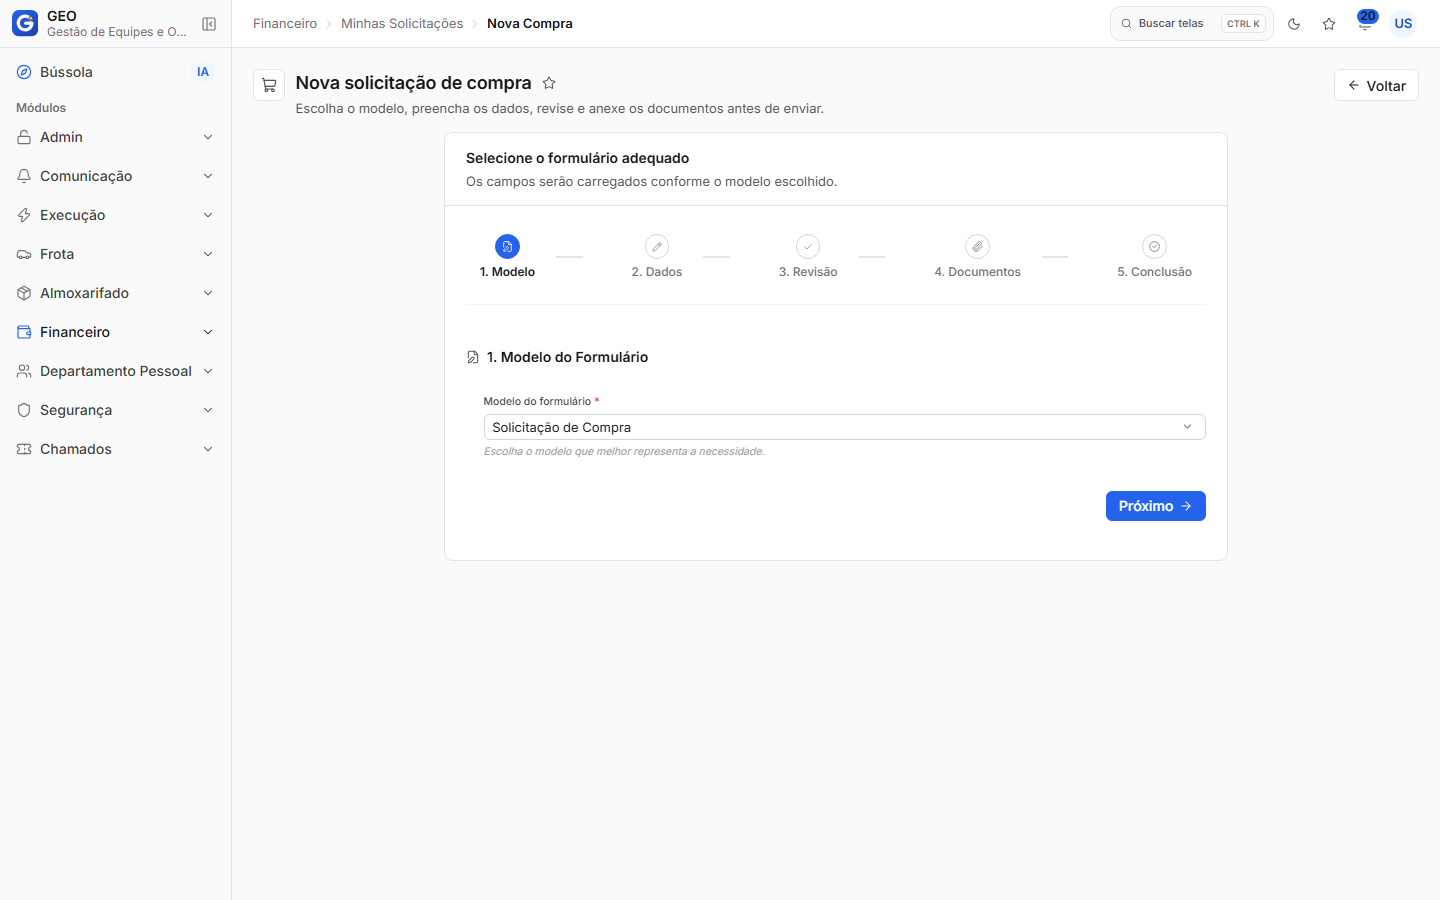
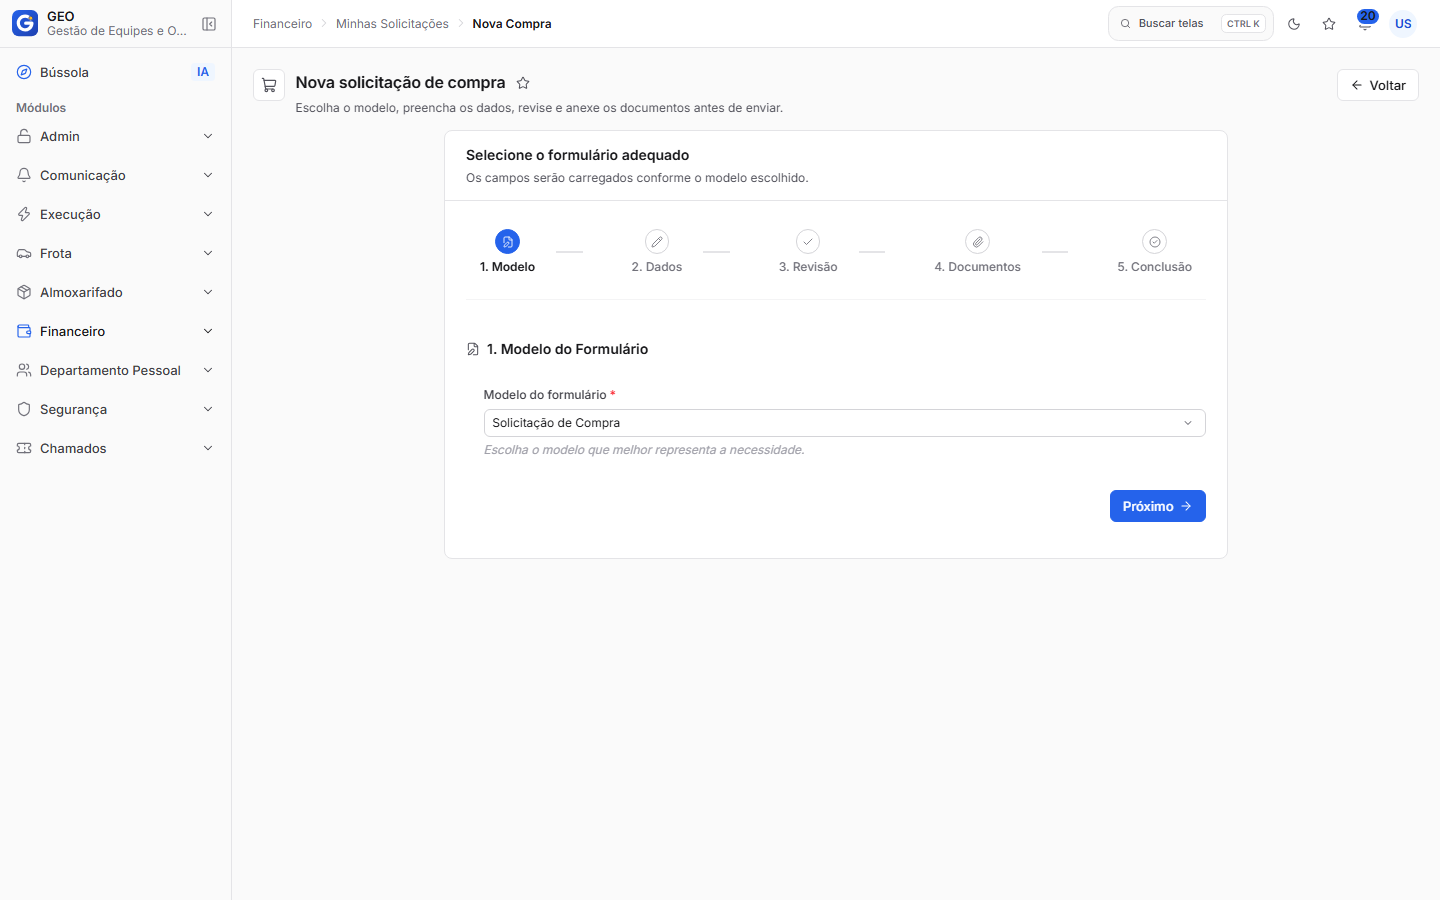
docs(redesign): MORNING_REPORT, progresso final e oportunidades

diff --git a/docs/redesign/MORNING_REPORT.md b/docs/redesign/MORNING_REPORT.md
@@ -1,0 +1,177 @@
+# Redesign do GEO — relatório da manhã (20/11/2026)
+
+Branch **`redesign/full`** (a partir da `main` em 9d67b2b0). Nada foi enviado ao remoto; a `main` não foi tocada.
+
+## Resumo (10 linhas)
+1. Identidade nova no `@geo/ui`: preset sobre Aura compat com neutros **zinc** e **um acento azul**, fonte **Inter**, raiz 14px, controles de ~32px e escuro completo (`.app-dark`).
+2. **Tipografia compacta**, a seu pedido no meio da noite: texto base 13px, rótulos 12px, título de página 16px (commit a041ddb0).
+3. Os tokens `--geo-*` viraram camada de compatibilidade sobre os primitivos `--p-*`, e o preset passou a ser a fonte única de cor. 1.289 hex de CSS foram trocados por primitivos.
+4. **Ícones:** os 6.522 usos de PrimeIcons agora desenham Lucide via máscara CSS gerada (`pi-lucide.css`), e a fonte PrimeIcons saiu do bundle.
+5. **Shell:** topbar de 48px e sidebar neutra de 232px, com itens de 30px. Ctrl+K, tema claro/escuro e Ctrl+S já existiam e foram mantidos.
+6. **Componentes novos no `@geo/ui`:** `geo-status-tag` (lê o `StatusDto` da API), `geo-empty-state`, `geo-filter-bar`, seletor de colunas persistido no `geo-data-table`, `align` por coluna, `.geo-cell-clamp` e `geoApplyServerErrors`.
+7. **Backend:**
+   - `errors[]` nos erros por campo (contrato RFC 9457);
+   - 422 em regra de negócio;
+   - ordenação inválida devolve 400, em vez do 500 de antes;
+   - `StatusDto`/`UiSeverity` e `GET /api/v1/meta/enums/{nome}`;
+   - textos de dashboard formatados em pt-BR.
+8. **Telas:** as 3 de referência foram aprovadas pelo ui-reviewer, e as P1 de todos os módulos foram migradas por subagentes, com uma revisão do ui-reviewer por módulo.
+9. **Bugs reais corrigidos de passagem:**
+   - fundo transparente na primeira pintura;
+   - `/ativos-min`, que sempre dava 400;
+   - botão primário ilegível no escuro;
+   - números crus nos textos dos dashboards.
+10. **Verificações:** build, `npm test`, `ds:check` e e2e (ver a seção de verificações). Sem nenhum `::ng-deep` no SST; os `!important` que restam nas telas estão em `@media print`.
+
+## Telas
+**Referência (aprovadas pelo portão):** `/obras` (listagem densa), `/obras/nova` (formulário longo) e `/execucao/dashboard-operacional`.
+
+**Migradas (P1):**
+
+| Módulo | Telas migradas |
+|---|---|
+| Obras | ficha, turnos, medições, encerramento, programação (semana, mês, painel e histórico), pré-fechamento |
+| Execução | comercial, turnos, metas físicas |
+| Frota | ordens de serviço, veículos, abastecimentos, relatórios |
+| Almoxarifado | solicitações técnicas; movimentações, saldos e relatórios revisados |
+| DP | painel, novo desconto, lançamento e as filas |
+| SST | inspeção (nova/editar/detalhe), evento (novo/editar/detalhe), construtor de formulário, 3 dashboards; CSS da governança |
+| Financeiro | compras, pagamentos, aprovações, nova compra/pagamento, detalhe, dashboard |
+| Chamados | fila, meus, detalhe |
+| Notificações | mural, formulários de comunicado e automações (CSS) |
+| Home e Bússola | home, Bússola |
+| IAM | login, usuários, perfis, permissões, avaliações |
+| RH/cadastros | 15 listagens |
+| Outros | contrato, sincronismo, documentos legais |
+
+**Não migradas, ou só com o efeito global do tema:**
+- **Relatórios P2:** `/obras/encerramento/:id`, `/execucao/comercial/:id`, `/execucao/turnos/:id/detalhamento`, os relatórios de impressão da frota e os detalhes de solicitação do almoxarifado. Fica pendente o componente de página-relatório (O14).
+- **Cadastros P3 e telas secundárias:** cerca de 40 telas da frota, os cadastros do almoxarifado e do SST, `/obras/:id/planejamento`, dashboard e documentos de chamados, preferências e comunicados. O motivo foi orçamento: o limite de uso foi atingido duas vezes durante a noite.
+- **Sem acesso:** `/almoxarifado/solicitacoes`, a governança do SST e `/notificacoes/automacoes`. O USRADMIN local não tem a permissão, e mexer em permissões está proibido.
+- `/manuais` redireciona para a home (rota oculta ou permissão).
+
+Todas as telas recebem a identidade nova pelos efeitos globais: tema, tokens, Tailwind, ícones e tipografia.
+
+## Evidências
+- **Telas de referência, antes:** [obras-lista](shots/antes/obras-lista-claro-1440.jpg) · [obras-nova](shots/antes/obras-nova-claro-1440.jpg) · [dashboard](shots/antes/dashboard-operacional-claro-1440.jpg) (mais escuro e 1280 na mesma pasta).
+- **Telas de referência, depois:** [obras-lista claro](shots/depois/obras-lista-claro-1440.png) / [escuro](shots/depois/obras-lista-escuro-1440.png) · [obras-nova claro](shots/depois/obras-nova-claro-1440.png) / [escuro](shots/depois/obras-nova-escuro-1440.png) · [dashboard claro](shots/depois/dashboard-operacional-claro-1440.png) / [escuro](shots/depois/dashboard-operacional-escuro-1440.png).
+- **Uma tela por módulo:**
+  - [Obras: ficha](shots/depois/obras-ficha-claro-1440.png)
+  - [Execução: comercial](shots/depois/execucao-comercial-claro-1440.png)
+  - [Frota: ordens de serviço](shots/depois/frota-ordens-servico-claro-1440.png)
+  - [Almoxarifado: solicitações técnicas](shots/depois/almoxarifado-solicitacoes-tecnicas-claro-1440.png)
+  - [DP: painel](shots/depois/dp-dashboard-claro-1440.png)
+  - [SST: inspeção com checklist](shots/depois/sst-inspecao-checklist-escuro-1440.png)
+  - [Financeiro: compras](shots/depois/financeiro-compras-claro-1440.png)
+  - [Chamados: fila](shots/depois/chamados-fila-claro-1440.png)
+  - [Notificações: mural](shots/depois/notificacoes-mural-claro-1440.png)
+  - [RH: colaboradores (escuro)](shots/depois/rh-colaboradores-escuro-1440.png)
+  - [Home](shots/depois/home-inicio-claro-1440.png)
+  - [Bússola](shots/depois/bussola-inicio-claro-1440.png)
+
+  Variantes claro/escuro e 1280 ficam em `shots/depois/`.
+- **Vídeos dos fluxos (.webm):** o `gif_creator` do Chrome não ficou disponível. Ver o item "Chrome" em Riscos.
+  - [obras](gifs/obras-fluxo.webm) · [ficha da obra](gifs/obras-ficha-fluxo.webm) · [execução](gifs/execucao-fluxo.webm)
+  - [frota](gifs/frota-fluxo.webm) · [almoxarifado](gifs/almoxarifado-fluxo.webm) · [DP](gifs/dp-fluxo.webm)
+  - [SST](gifs/sst-fluxo.webm) · [financeiro](gifs/financeiro-fluxo.webm) · [chamados](gifs/chamados-fluxo.webm)
+  - [notificações](gifs/notificacoes-fluxo.webm) · [cadastros](gifs/cadastros-fluxo.webm)
+  - Alguns passos de clique falharam na gravação: abrir linha em cadastros, "Próximo" no financeiro e "Ver turno" na execução. Nenhum vídeo salva dado.
+
+## Decisões (uma linha cada)
+| # | Decisão | Justificativa |
+|---|---|---|
+| D1 | Preset sobre `aura-compat`, não o Aura padrão | O Aura padrão supõe raiz de 16px; as telas têm centenas de medidas em rem. A migração está nas PENDÊNCIAS (prazo jun/2027). |
+| D2 | Raiz 14px | Controles de 32px e o kit calibrado para 14px. |
+| D3 | Inter self-hosted | Kit; a Manrope foi removida. |
+| D4 | Neutros zinc e um acento azul (blue.600 = azul da marca) | "Neutra, um acento"; o âmbar deixou de ser acento. |
+| D5 | Sidebar neutra, sem ladrilhos | O acento fica só no item ativo. |
+| D6 | `--geo-*` apontam para primitivos `--p-*` | Os semânticos têm `light-dark()`, que o chart.js e o Leaflet não leem. |
+| D7 | PrimeIcons por máscara Lucide em CSS | Um set de ícones na hora, sem reescrever 566 arquivos. |
+| D8 | Validação pelo Playwright headless | O Chrome parou de renderizar capturas às 00:30 (tela do PC desligada). |
+| D9 | `uppercase` do Tailwind neutralizado globalmente | Kit: nada em caixa alta. `.geo-caixa-alta` para exceções. |
+| D10 | Hex trocado pelo primitivo mais próximo | Uma fonte de cor, preservando o claro/escuro. |
+| D11 | IllegalState/Validation → 422 | Contrato; a fila offline trata todo 4xx igual. |
+| D12 | Ordenação inválida → 400 no handler global | Elimina os 500 de 92 controllers de uma vez; a whitelist por recurso é a oportunidade O3. |
+| D13 | `max-page-size` não limitado a 200 | 65 telas pedem 500–2000 itens para selects (depende de O2). |
+| D14 | `api:gen` com openapi-typescript via `npx` | Ele declara peer TS 5; o projeto está no TS 6. |
+| D15 | Novos arquivos do backend em `application/dto` e `mappers` | O `backend/CLAUDE.md` proíbe camadas extras. |
+| D16 | Tipografia compacta (13/12/16px) com controles mantidos | Pedido seu durante a noite. |
+| D17 | Tokens de primeira pintura com fallback hex | As `--p-*` só existem depois que o PrimeNG injeta o tema. |
+| D18 | Subagentes no mesmo working tree, cada um na pasta do seu módulo | Paralelismo sem conflito; eu integrei e commitei. |
+| D19 | `!important` de `@media print` mantidos | Sobrepõem o shell na impressão. |
+| D20 | Erros de e2e que já existiam antes foram ajustados ou marcados como `skip` com justificativa | Seletor de cor primária removido do catálogo; título da home mudou. |
+
+## Backend, endpoint por endpoint
+- **Todos os endpoints (GlobalExceptionHandler):**
+  - validação e preenchimento: ProblemDetail com `errors: [{field, message, code}]` e `code` (`fieldErrors`/`erros` mantidos);
+  - `IllegalStateException` → 422 `ESTADO_INVALIDO`;
+  - `ValidationException` → 422 `REGRA_NEGOCIO_VIOLADA`;
+  - `PropertyReferenceException` (sort inválido) → 400 `ORDENACAO_INVALIDA`.
+- **Novo `GET /api/v1/meta/enums`:** lista os nomes dos enums. Tem cache de 1h.
+- **Novo `GET /api/v1/meta/enums/{nome}`:** devolve `[{code, label, severity}]`. Publicados: `status-chamado` e `status-desconto`.
+- **`/v1/dp/descontos/dashboard` e `/v1/financeiro/dashboard`** (prioridades): moeda e percentual em pt-BR e plural no texto, no lugar de "(s)".
+- **Front:** supervisores/coordenadores ativos agora vêm de `/v1/rh/{supervisores,coordenadores}/min`, endpoint que já existia (o `/ativos-min` nunca existiu).
+- Sem migrations e sem mudança de regra de negócio, cálculo ou permissão.
+
+## Verificações (estado final)
+| Verificação | Estado | Detalhe |
+|---|---|---|
+| `ng build` | ✅ verde | Rodado no estado final (commit 1e39384e). Só avisos que já existiam (budget do bundle, NG8011). |
+| `npm test` (Vitest) | ⚠ não reconfirmado no estado final | A última rodada completa deu 306 de 307 arquivos. O que falhava (import-drawer, teste da regra antiga de largura) foi corrigido, e os módulos tocados depois passaram isolados: SST + import-drawer com 30 arquivos, chamados/financeiro/SST com 28. A rodada completa final **foi interrompida pelo Claude Code por falta de memória** na máquina. Rode `npm test -- --watch=false` para confirmar. |
+| `ds:check` | ✅ verde | No estado final, com a linha de base do `ds:visual` atualizada: as contagens só caíram. |
+| e2e (Playwright) | ⚠ não reconfirmado no estado final | Verde na rodada de ~05:30: desktop + mobile, com 2 testes em `skip` justificados (D20). A rodada final foi interrompida por falta de memória. Rode `npm run test:e2e`. |
+| Backend (`mvnw test`) | ✅ 2.350/2.353 | Os 3 erros já existiam antes (veja abaixo). |
+
+**Atenção:** o backend que eu subi na 8092 também foi encerrado pelo Claude Code por falta de memória. Ele **não está mais no ar**; suba com o comando de "Como revisar".
+
+Backend: 2.353 testes; os 3 que falham (`RenderizacaoAtaDocxServiceTest`) já falhavam antes, por falta de um `.docx` de referência fora do repositório.
+
+## PENDÊNCIAS e riscos para você olhar
+- **Chrome:** a extensão parou de capturar telas por volta de 00:30, provavelmente com a tela do PC desligada. Toda a validação visual foi feita pelo Playwright headless. Por isso não há GIF; os fluxos estão em .webm.
+- **Limite de uso:** foi atingido 2 vezes (das 03h às 05h20 e às 07h20). Os subagentes pararam no meio e foram retomados. Por isso as telas P2/P3 ficaram fora.
+- **Sessão do Playwright:** compartilhar o refresh token entre cópias de sessão as invalidou (rotação de token). Prints de alguns módulos foram refeitos depois com login novo.
+- **Ao reiniciar o backend,** eu subi uma vez sem `DB_URL`, apontando para o `ces-db` de outro checkout. O Flyway **recusou na validação, sem aplicar nada**, e subi de novo no `nexo-db`. Vale conferir com `select * from flyway_schema_history order by installed_rank desc limit 5` no `ces-db` que nada mudou.
+- O backend que eu subi em 8092 foi encerrado por falta de memória na máquina, junto com a rodada final de testes. Não reiniciei.
+- **Aura padrão:** migrar de `aura-compat` antes de jun/2027.
+- **Mudanças mecânicas globais** (hex → primitivo, `uppercase`/`bold`/tracking, fontes < 12px, escala do Tailwind): alguma tela não revisada pode ter mudado de nuance ou de tamanho de texto.
+- **NG0100 (ExpressionChanged)** no `SidebarComponent` em dev: o `item.expanded` do `p-panelmenu` em `Eager`. Provavelmente já existia antes.
+- **Permissões do USRADMIN local** impediram revisar 3 telas (ver Telas). Não mexi em permissões.
+- `/financeiro/gestao/solicitacoes` está declarada 2x em `app.routes.ts` (só relatado).
+- Restos da revisão final, ainda não feitos:
+  - formato de data diferente entre módulos (um formatador único no `@geo/ui`);
+  - "Exportar CSV" no cabeçalho em umas telas e na barra da tabela em outras;
+  - PrimeNG direto em formulários do financeiro e do SST;
+  - checklist da inspeção com botões em vez de rádio;
+  - breadcrumbs em Title Case;
+  - título do card repetindo o título da página.
+- Arquivo solto: `C:\c\Users\...` foi criado por engano por um subagente (prints de rascunho). Pode apagar à mão.
+- Registros `[TESTE]`: nenhum foi criado; nada foi salvo no banco.
+
+## Oportunidades
+Lista completa em [OPORTUNIDADES.md](OPORTUNIDADES.md). As 5 de maior impacto:
+1. **O14:** componente de página-relatório no `@geo/ui`, para acabar com as barras flutuantes e com o "NOME DA EMPRESA" na tela nos relatórios P2.
+2. **O2:** endpoints `/options` com busca, em vez de carregar 500–2000 itens para cada select.
+3. **O4:** `StatusDto` nas linhas das listagens + `<geo-status-tag>` (a infraestrutura já existe).
+4. **O1:** um único rótulo para o status de desconto (hoje "Solicitado", "Lançado" e "Aguardando validação").
+5. **O10/O11:** detalhes de solicitação (almoxarifado) e de desconto (DP) ainda no layout antigo.
+
+## Como revisar
+```bash
+git log main..redesign/full --oneline
+git diff --stat main..redesign/full
+
+# backend (banco nexo-db, como na nota do ambiente local)
+cd backend
+DB_URL=jdbc:postgresql://localhost:5433/nexo-db ./mvnw spring-boot:run -Dspring-boot.run.jvmArguments="-Dserver.port=8092 -Dgeo.email.provedor=NENHUM"
+
+# front
+cd frontend
+npm start                         # http://localhost:4200
+npm run build && npm test -- --watch=false && npm run ds:check && npm run test:e2e
+npm run api:gen                   # com o backend no ar
+
+# prints e vídeos
+node tools/redesign/shots.mjs <pasta> nome=/rota
+node tools/redesign/gravar.mjs <saida.webm> <passos.json>
+```
+Documentos: [PROGRESS.md](PROGRESS.md) · [inventory.md](inventory.md) · [api-gap.md](api-gap.md) · [OPORTUNIDADES.md](OPORTUNIDADES.md) · [BRIEF-MODULO.md](BRIEF-MODULO.md)

diff --git a/docs/redesign/OPORTUNIDADES.md b/docs/redesign/OPORTUNIDADES.md
@@ -10,7 +10,7 @@ seguras foram implementadas na hora (ver PROGRESS.md).
 | O3 | Listagens server-side (92 controllers) | `sort` repassado cru ao JPA; hoje um campo inválido devolve 400 (antes 500), mas qualquer propriedade da entidade é ordenável. | Whitelist de ordenação por recurso (mapa coluna da UI → propriedade), como na skill do contrato. | médio | médio |
 | O4 | Listagens de status (65 campos enum cru) | Cada tela mantém tabela própria de rótulo/cor/ícone do status. | Devolver `StatusDto {code,label,severity}` nas linhas (`*Row`) e usar `<geo-status-tag>`; os catálogos `EnumDeUi` já existem para chamado e desconto. | alto | médio |
 | O5 | 71 controllers | DTO de listagem igual ao de detalhe: listagens trafegam campos que a tabela não mostra. | Separar `XxxRow` (plano, só colunas) de `XxxDetail`. | médio | alto |
-| O6 | Carteira de obras (`/obras`) | 18 colunas na tabela; em 1280px metade fica fora da tela. | Colunas configuráveis por usuário (mostrar/ocultar, ordem) persistidas, com um conjunto padrão de 9 colunas. | alto | médio |
+| O6 | Carteira de obras (`/obras`) | 18 colunas na tabela. **Parcialmente feito:** seletor de colunas persistido + 10 colunas padrão. Falta reordenar colunas. | Reordenação por arrastar no seletor de colunas do `geo-data-table`. | médio | médio |
 | O7 | Rótulos de dados em maiúsculas (status de obra, processos, bases) | Os cadastros gravam nomes em CAIXA ALTA; a interface não consegue apresentá-los em caixa de frase. | Normalizar a exibição no backend (campo `nomeExibicao`) ou migração de dados combinada com o cliente. | médio | médio |
 | O8 | Frota — ordens de serviço | Até 3 selos na coluna Situação alargam a tabela e empurram a Descrição para fora. | Selos secundários (prazo, parado) só com ícone + tooltip, ou coluna "Alertas". | médio | baixo |
 | O9 | Frota — 40 listagens P2/P3 | Ainda sem o ajuste de texto em 1 linha (linhas altas). | Aplicar `AJUSTE_TEXTO_FROTA` (já existe em `features/frota/shared/frota-lista.ts`) e revisar células custom. | alto | médio |
@@ -18,3 +18,12 @@ seguras foram implementadas na hora (ver PROGRESS.md).
 | O11 | DP — detalhe do desconto (`/dp/descontos/:id`) | 76 classes `!`; botões validar/baixar/rejeitar com cor forçada. | `geo-button` com variantes + `geo-form-drawer`. | alto | médio |
 | O12 | DP — novo desconto | Rota `fullscreen: true` deixa o formulário sem sidebar e sem trilha. | Tirar o fullscreen ou abrir em drawer a partir da listagem. | médio | baixo |
 | O13 | Dashboards de chamados, financeiro, SST e frota | Ainda usam `app-dashboard-insight-panel` (agora neutro), enquanto a referência usa `app-dashboard-visao-gerencial`. | Aposentar o insight-panel e migrar todos para a visão gerencial. | médio | médio |
+| O14 | Relatórios P2 (`/obras/encerramento/:id`, `/execucao/comercial/:id`, `/execucao/turnos/:id/detalhamento`, detalhe financeiro) | Barra de ações flutuante em caixa alta, "NOME DA EMPRESA" na tela, `relatorio.css` com !important. | Componente `@geo/ui` de página-relatório: page-header com ações e documento só na impressão (padrão já aplicado nos detalhes do SST e na ficha da obra). | alto | médio |
+| O15 | Listas de desvios e eventos (SST) | Colunas espremidas; "Ver detalhes"/"Abrir evento" em texto ocupam ~130px; "Abrir evento" abre nova aba. | Ação da linha só com ícone ou clique na linha (mesma aba); colunas ocultas por padrão. | alto | médio |
+| O16 | Ficha da obra (`/obras/:id`) | 8 ações na barra do topo; "Atualizar obra" com chevron à esquerda e sem aria-haspopup. | Menu "Mais ações" (Devolver, Encerramento, Imprimir) e menu do `@geo/ui` com aria correto. | médio | baixo |
+| O17 | Abrir ficha/nota a partir de listas (obras, comercial, eventos) | `window.open` em nova aba. | Abrir na mesma aba, com Ctrl+clique para nova aba. | médio | baixo |
+| O18 | Formulários de inspeção e evento (SST) e financeiro | `p-*` crus com `ngModel`; stepper feito à mão com `p-stepper`. | Migrar para `geo-form-*` e criar `geo-stepper` no `@geo/ui`. | médio | alto |
+| O19 | Dashboards (inspeções SST, descontos) | Cores de gráfico em hex/rgba sem variante escura. | Ler a paleta do `ThemeTokens` (já usado no dashboard de eventos). | médio | baixo |
+| O20 | Listagens RH/IAM | "Editar" em texto + ícones repetidos em toda linha. | Clique na linha + menu "⋯", como em /obras. | médio | médio |
+| O21 | /bussola | Grade de sugestões passa por baixo do compositor em telas de 900px. | Rolagem própria ou 4 sugestões. | médio | baixo |
+| O22 | `geo-data-table` | `textFit` não corta células com template próprio; telas repetem CSS. | Já existe `.geo-cell-clamp`; aplicar corte automático ao conteúdo do `geoCell` quando houver `textFit`. | médio | baixo |

diff --git a/docs/redesign/PROGRESS.md b/docs/redesign/PROGRESS.md
@@ -4,15 +4,11 @@
 > Branch: `redesign/full` (criada a partir da `main` em 9d67b2b0, 20/11/2026).
 
 ## Etapa atual
-5. Migração em massa por módulo (portão das referências: APROVADO COM AJUSTES pelo ui-reviewer, 2ª rodada, ~01:25).
-   - Rodada 1 (subagentes em paralelo, mesmo working tree, cada um só na pasta do módulo; eu integro e commito):
-     SST · Almoxarifado + DP · Frota.
-   - Rodada 2: Obras + Execução · Financeiro + Chamados + Notificações · RH/IAM/Contrato/Admin/Manuais/Home/Legal/Bússola.
-   - Brief comum: docs/redesign/BRIEF-MODULO.md.
+CONCLUÍDO (20/11/2026 ~08:30). Relatório: docs/redesign/MORNING_REPORT.md.
 
 ## Próxima tarefa
-- Integrar a rodada 1 (testes do módulo + commit por módulo + ui-reviewer por módulo); lançar a rodada 2.
-- Depois das rodadas: reiniciar o backend (endpoints novos), `npm run api:gen`, e2e, build, npm test, ds:check.
+- Confirmar `npm test -- --watch=false` e `npm run test:e2e` completos (as rodadas finais foram interrompidas por falta de memória).
+- Itens de consistência restantes da revisão final e telas P2/P3 (ver MORNING_REPORT e OPORTUNIDADES).
 
 ## Ferramentas
 - Chrome (Claude in Chrome) parou de capturar telas às ~00:30 (renderer sem pintura; provável tela do PC desligada). Validação visual segue pelo Playwright headless:
